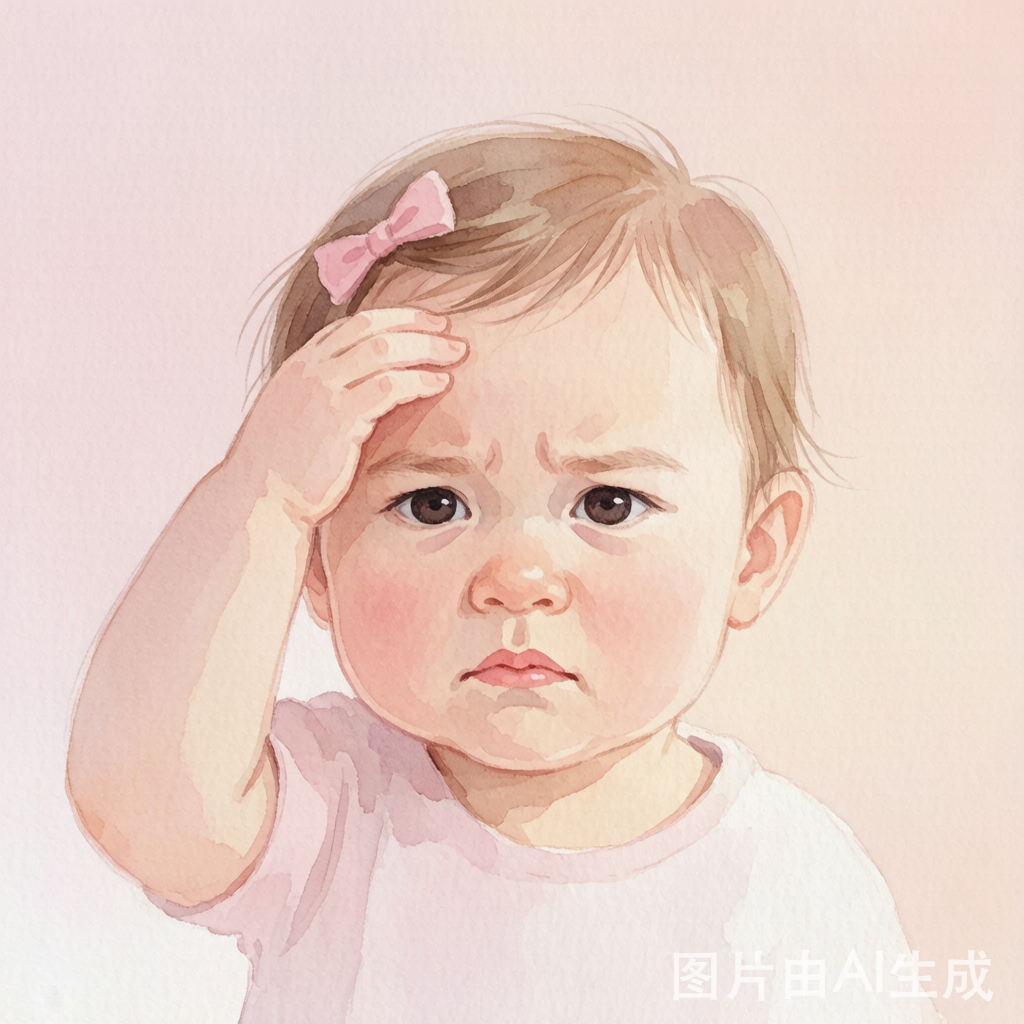
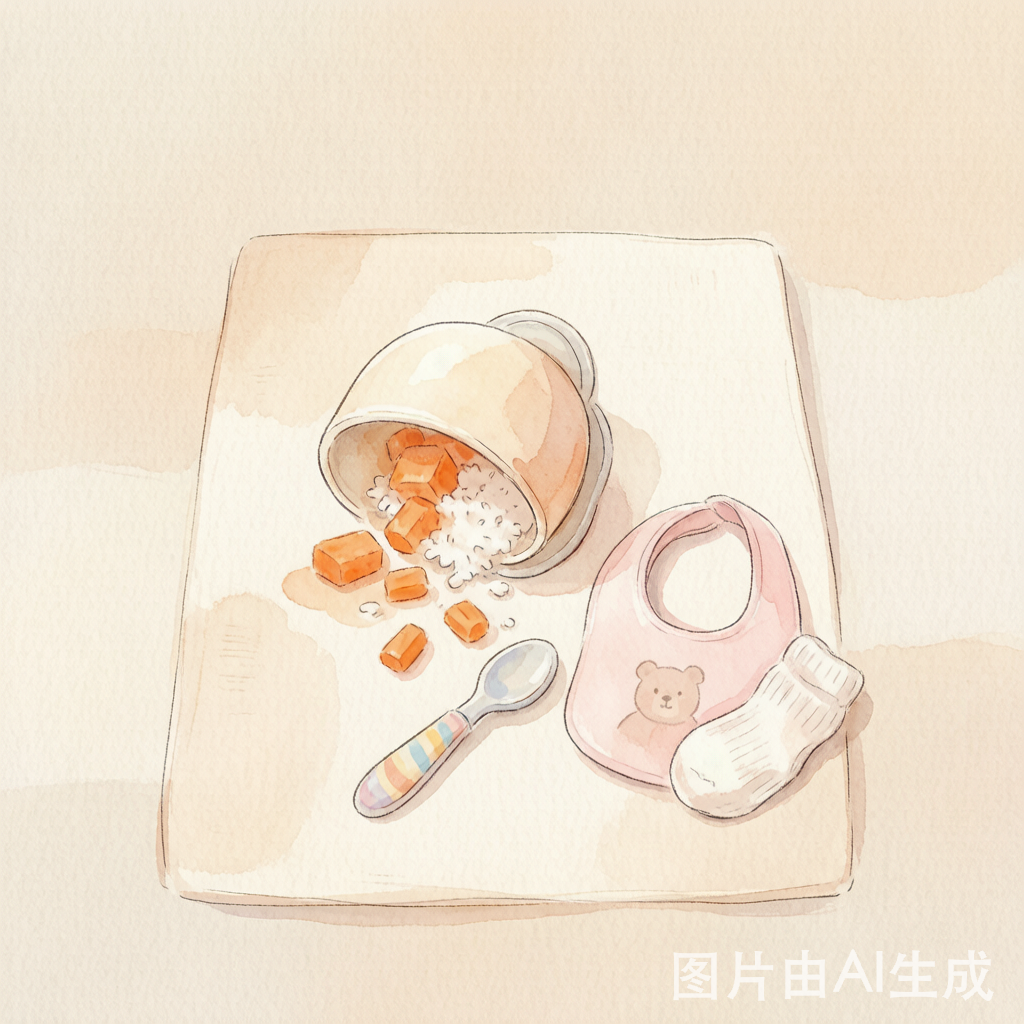
今日贴图更新

diff --git a/content/images/2026-07-28-image.html b/content/images/2026-07-28-image.html
@@ -1,0 +1,13 @@
+<section style="font-family: -apple-system, BlinkMacSystemFont, sans-serif; font-size: 15px; line-height: 1.85; color: #333; padding: 15px; max-width: 100%;">
+
+<p style="margin-bottom: 15px; text-align: center; color: #888; font-size: 13px;">🥣</p>
+
+<p style="margin-bottom: 20px; text-align: center; font-size: 16px;">吸盘碗又被掀了</p>
+
+<p style="margin-bottom: 20px;">刚跟妈妈夸完这个吸盘碗真牢，小Xi低头研究了十秒，啪一下连碗带饭掀到地垫上。</p>
+
+<p style="margin-bottom: 20px;">我蹲着捡胡萝卜丁，她在旁边开心鼓掌。</p>
+
+<p style="margin-bottom: 20px;">行，今天的清洁项目是爸爸亲自点的 🥣</p>
+
+</section>
